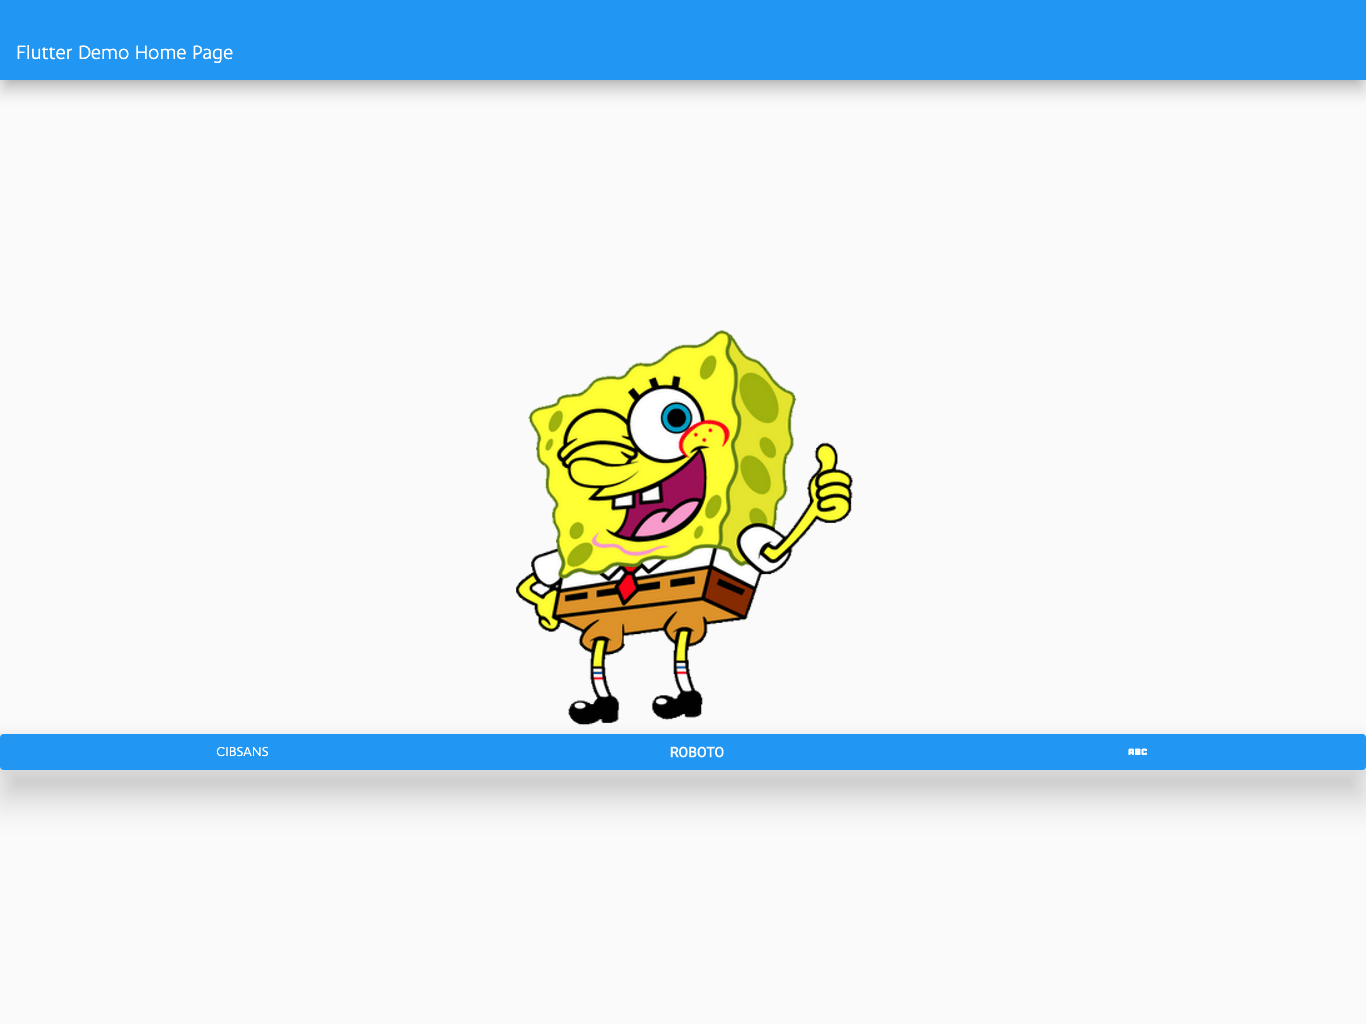
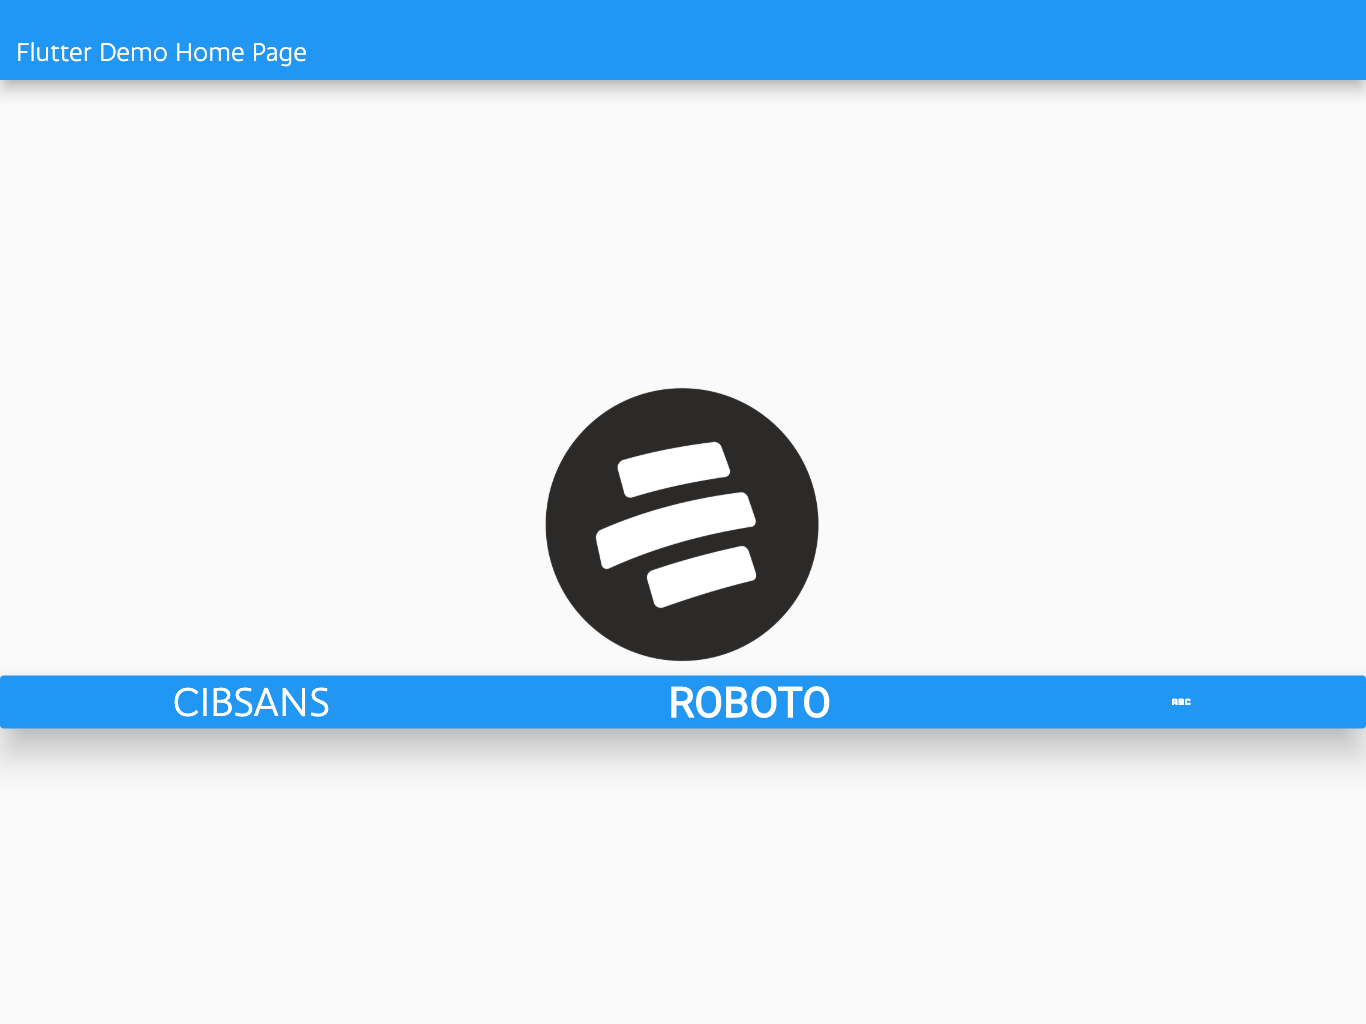
feat: update readme images

Changed region(s): [[0.0, 0.3125, 1.0, 0.7812], [0.0, 0.0312, 0.2152, 0.0625]]

diff --git a/README.md b/README.md
@@ -76,7 +76,7 @@ The following are the windows configurations that are available in the package t
 Here are some examples of how are goldens rendered:
 | device  | example | 
 | ----- | ---- | 
-| `iPhone 8` | ![iPhone8 image](assets/use-cases/home_page_iphone_8.png)| 
+| `iPhone 8` | <img src="assets/use-cases/home_page_iphone.png" alt="drawing" width="300"/>| 
 | `iPad Pro` | ![iPad Pro image](assets/use-cases/home_page_ipad_pro.png)| 
 
 
@@ -106,9 +106,9 @@ bcGoldenTest(
 ## Accessibility. 🦾
 For testing accesibility there is a `textScaleFactor`parameter that will increase the font size depending in the given number, for example:
 
-| iPhone8 normal  | iPhone8 with text scale factor | 
+| iPhone14 normal  | iPhone14 with text scale factor | 
 | ----- | ---- | 
-| ![iPhone8 image](assets/use-cases/home_page_iphone_8.png) | ![iPhone8 text scale](assets/use-cases/home_page_iphone_text_scale_factor.png)|
+| <img src="assets/use-cases/home_page_iphone.png" alt="drawing" width="300"/> | <img src="assets/use-cases/home_page_iphone_text_scale_factor.png" alt="drawing" width="300"/> |
 
 
 

diff --git a/CHANGELOG.md b/CHANGELOG.md
@@ -1,5 +1,8 @@
 # Changelog
 
+## 1.3.1
+- Update README documentation.
+
 ## 1.3.0
 - Release package to pub.dev.
 
